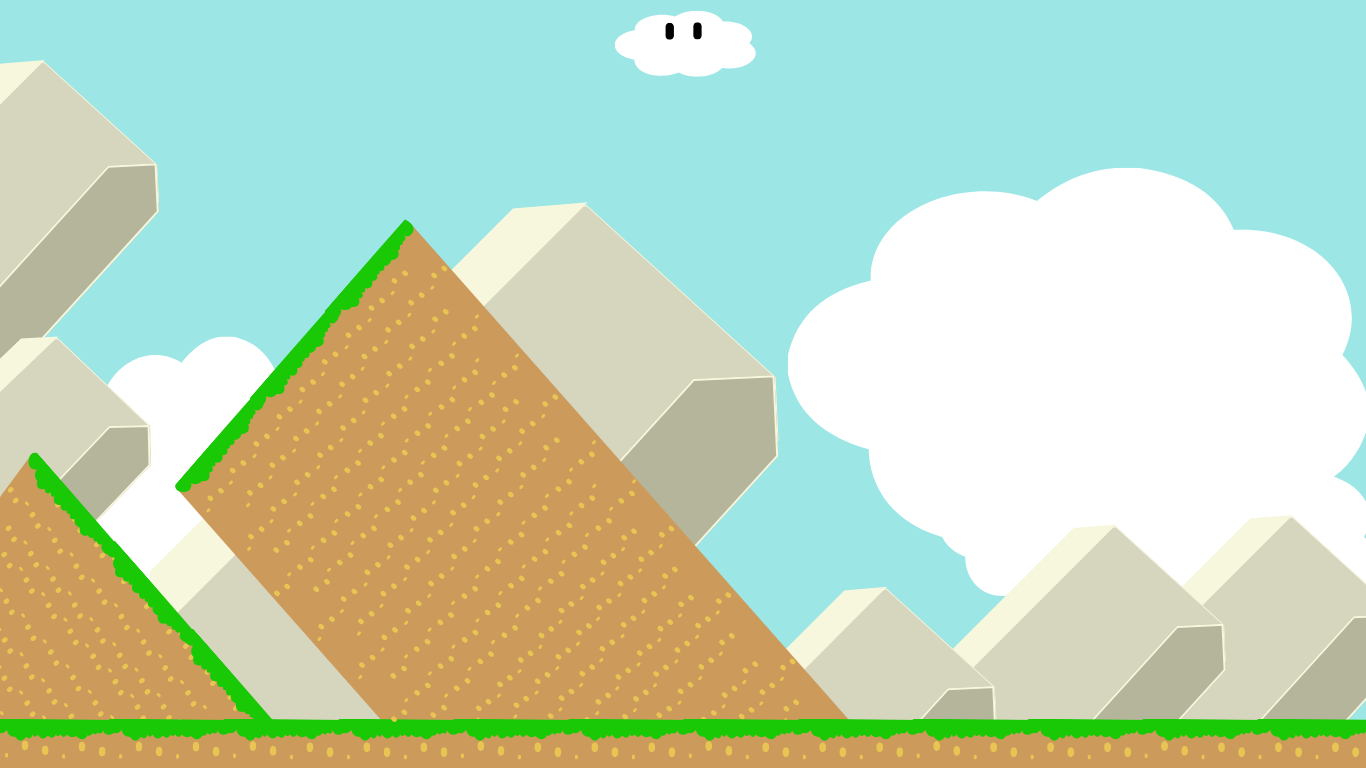
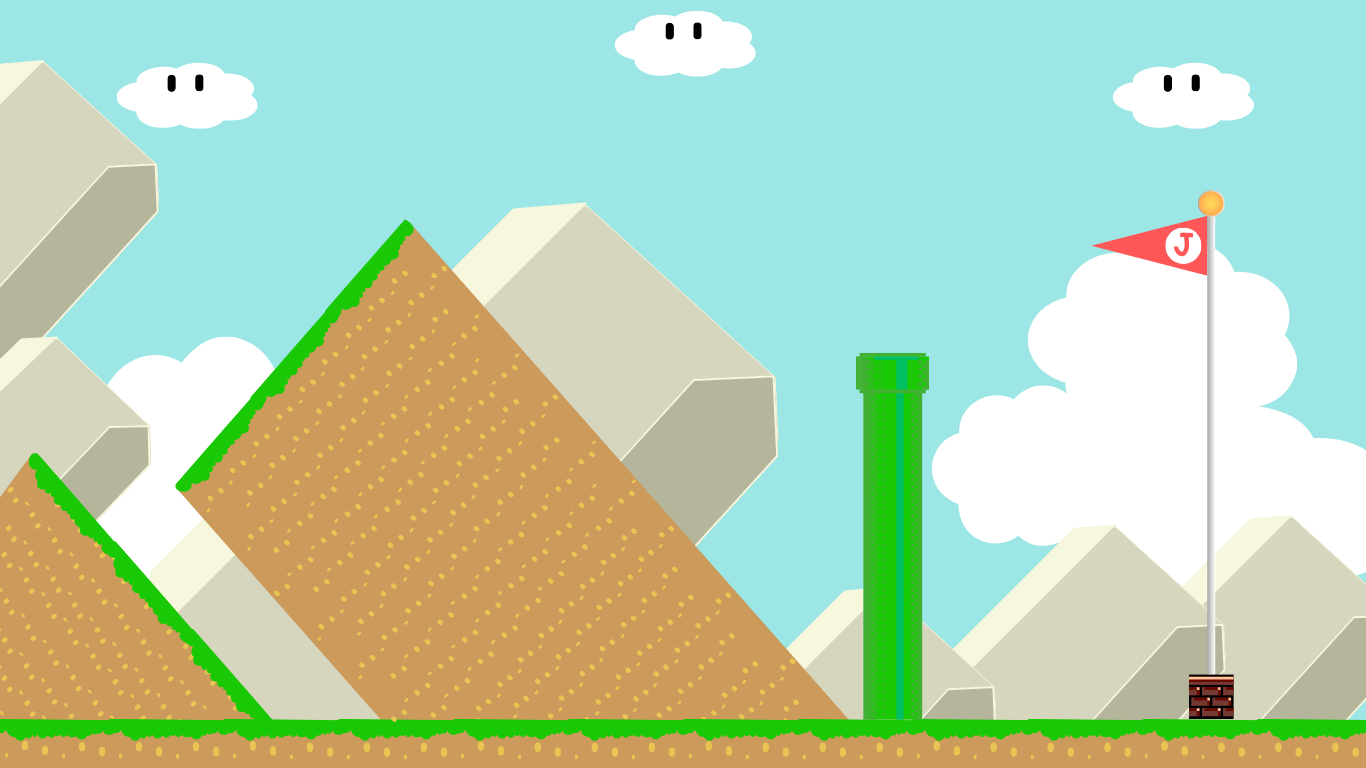
Build main section responsive for all screen sizes

Changed region(s): [[0.5534, 0.2188, 1.0, 0.9375], [0.7994, 0.0625, 0.9224, 0.1875], [0.0922, 0.0625, 0.1845, 0.1875]]

diff --git a/src/pages/MainPage/MainPage.jsx b/src/pages/MainPage/MainPage.jsx
@@ -1,4 +1,5 @@
-import img from "../../assets/img/banner.png";
+import img from "../../assets/img/bg-section-skills.png";
+import logo from "../../assets/logo/SUPER-Janine-World-2024-12-30.png";
 
 import { useRef } from "react";
 import NavBar from "../../components/NavBar/NavBar";
@@ -20,29 +21,89 @@ export default function MainPage() {
         hireMeRef={hireMeRef}
       />
 
-      <div ref={homeRef} className="bg-m-green bg-opacity-20">
-        <h1 className="font-mario text-m-green text-4xl drop-shadow-[0_1.2px_1.2px_rgba(0,0,0,0.8)] tracking-widest">
-          Home
-        </h1>
-        <img className="w-full" src={img} alt="Landscape" />
-      </div>
+      <section
+        ref={homeRef}
+        className="section bg-banner bg-cover max-w-full h-lvh"
+      >
+        <div className="container flex flex-col justify-center items-center h-full">
+          <img className="max-w-full md:w-[40rem] mb-4" src={logo} alt="logo" />
+          <h2 className="mb-8 font-mario text-center text-m-blue text-xl drop-shadow-[0_1.2px_1.2px_rgba(0,0,0,0.9)] tracking-widest md:text-2xl">
+            {" "}
+            I'm a full-stack web developer
+            <br /> with a love for all things tech
+          </h2>
+          <p className="max-w-xl text-pretty p-4 rounded-xl bg-white/5 shadow-lg ring-1 ring-black/5 backdrop-blur-md md:text-xl">
+            I'm always ready to tackle new challenges, power up my skills, and
+            embark on exciting adventures in the realm of coding. With a
+            creative mind and a keen eye for ideas, I find joy in discovering
+            ways to make people's lives easier and more efficient through
+            technology.
+          </p>
+        </div>
+      </section>
 
-      <div ref={myWorldRef} className="flex h-lvh bg-m-blue bg-opacity-10">
-        <h1 className="font-mario text-m-blue text-4xl drop-shadow-[0_1.2px_1.2px_rgba(0,0,0,0.8)] tracking-widest">
-          My World
-        </h1>
-      </div>
-      <div ref={skillsRef} className="flex h-lvh bg-m-red bg-opacity-10">
+      <section
+        ref={myWorldRef}
+        className="section h-lvh bg-my-world-pattern bg-contain bg-repeat"
+      >
+        <div className="container">
+          <h1 className="font-mario text-m-blue text-4xl drop-shadow-[0_1.2px_1.2px_rgba(0,0,0,0.8)] tracking-widest">
+            My World
+          </h1>
+          <p>
+            a (1) : the original words and form of a written or printed work (2)
+            : an edited or emended copy of an original work b : a work
+            containing such text 2 a : the main body of printed or written
+            matter on a page b : the principal part of a book exclusive of front
+            and back matter c : the printed score of a musical composition 3 a
+            (1) : a verse or passage of Scripture chosen especially for the
+            subject of a sermon or for authoritative support (as for a doctrine)
+            (2) : a passage from an authoritative source providing an
+            introduction or basis (as for a speech) b : a source of information
+            or authority 4 : theme, topic 5 a : the words of something (such as
+            a poem) set to music b : matter chiefly in the form of words or
+            symbols that is treated as data for processing by computerized
+            equipment text-editing software 6 : a type suitable for printing
+            running text
+          </p>
+          <p>
+            a (1) : the original words and form of a written or printed work (2)
+            : an edited or emended copy of an original work b : a work
+            containing such text 2 a : the main body of printed or written
+            matter on a page b : the principal part of a book exclusive of front
+            and back matter c : the printed score of a musical composition 3 a
+            (1) : a verse or passage of Scripture chosen especially for the
+            subject of a sermon or for authoritative support (as for a doctrine)
+            (2) : a passage from an authoritative source providing an
+            introduction or basis (as for a speech) b : a source of information
+            or authority 4 : theme, topic 5 a : the words of something (such as
+            a poem) set to music b : matter chiefly in the form of words or
+            symbols that is treated as data for processing by computerized
+            equipment text-editing software 6 : a type suitable for printing
+            running text
+          </p>
+        </div>
+      </section>
+      <div
+        ref={skillsRef}
+        className="flex h-lvh bg-skills-pattern bg-contain bg-repeat"
+      >
         <h1 className="font-mario text-m-red text-4xl drop-shadow-[0_1.2px_1.2px_rgba(0,0,0,0.8)] tracking-widest">
           Skills
         </h1>
       </div>
-      <div ref={projectsRef} className="flex h-lvh bg-m-yellow bg-opacity-10">
+      <div
+        ref={projectsRef}
+        className="flex h-lvh bg-projects-pattern bg-contain bg-repeat"
+      >
         <h1 className="font-mario text-m-yellow text-4xl drop-shadow-[0_1.2px_1.2px_rgba(0,0,0,0.8)] tracking-widest">
           Projects
         </h1>
       </div>
-      <div ref={hireMeRef} className="flex h-lvh bg-m-blue-navy bg-opacity-10">
+      <div
+        ref={hireMeRef}
+        className="flex h-lvh bg-footer-pattern bg-contain bg-repeat"
+      >
         <h1 className=" font-mario text-m-blue-navy text-4xl drop-shadow-[0_1.2px_1.2px_rgba(0,0,0,0.8)] tracking-widest">
           Hire Me
         </h1>

diff --git a/tailwind.config.js b/tailwind.config.js
@@ -5,6 +5,7 @@ export default {
     extend: {
       fontFamily: {
         mario: ["Mario", "sans-serif"],
+        sans: ["Montserrat"],
       },
       colors: {
         "m-red": "#e71e06",
@@ -14,6 +15,13 @@ export default {
         "m-blue-navy": "#2765d6",
         "m-light-blue": "#519bde",
         "m-blue-sky": "#9ce6e6",
+      },
+      backgroundImage: {
+        banner: "url('./src/assets/img/banner.png')",
+        "skills-pattern": "url('./src/assets/img/bg-section-skills.png')",
+        "projects-pattern": "url('./src/assets/img/bg-section-projects.png')",
+        "my-world-pattern": "url('./src/assets/img/bg-section-my-world.png')",
+        "footer-pattern": "url('./src/assets/img/bg-footer.png')",
       },
       keyframes: {
         spinY: {

diff --git a/index.html b/index.html
@@ -4,7 +4,13 @@
     <meta charset="UTF-8" />
     <link rel="icon" type="image/svg+xml" href="" />
     <meta name="viewport" content="width=device-width, initial-scale=1.0" />
-    <title>Super Janine Journey</title>
+    <link rel="preconnect" href="https://fonts.googleapis.com" />
+    <link rel="preconnect" href="https://fonts.gstatic.com" crossorigin />
+    <link
+      href="https://fonts.googleapis.com/css2?family=Montserrat:ital,wght@0,100..900;1,100..900&display=swap"
+      rel="stylesheet"
+    />
+    <title>Super Janine World</title>
   </head>
   <body>
     <div id="root"></div>
